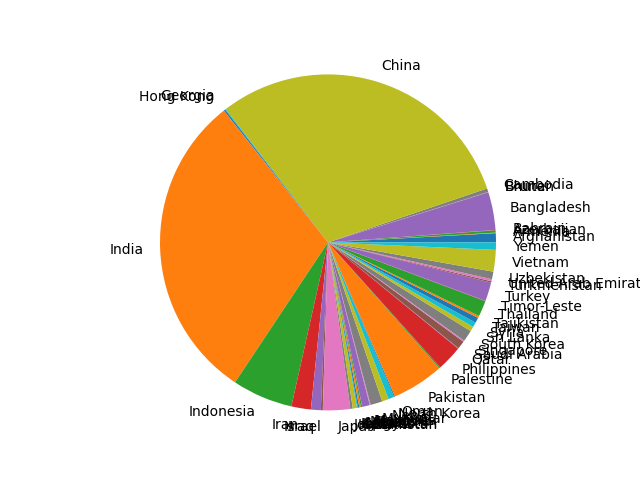
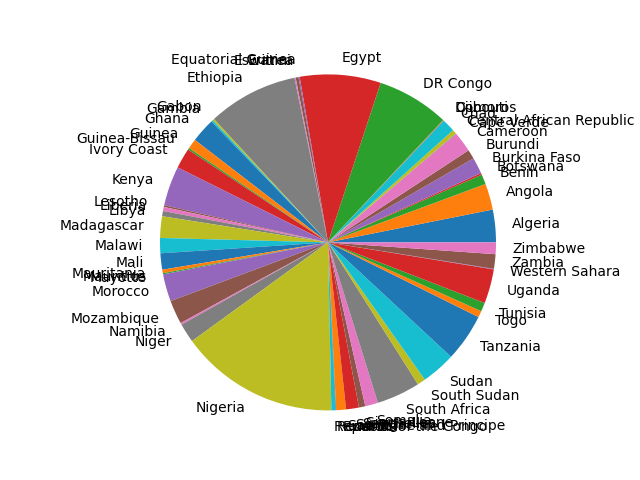
final docs

diff --git a/app/main.py b/app/main.py
@@ -1,16 +1,26 @@
 import utils
 import read_csv
 import charts
+import pandas as pd
 
 def run():
-  data = read_csv.read_csv('data.csv')
+  '''  
   # Realizar solución con este código para generar gráfico de pastel del porcentaje de la población mundial
   data = list(filter(lambda item: item['Continent'] == 'Asia', data))
 
   countries = list(map(lambda x: x['Country/Territory'], data))
   percentages = list(map(lambda x: x['World Population Percentage'], data))
+  '''
+
+  df = pd.read_csv('data.csv')
+  df = df[df['Continent'] == 'Africa']
+
+  countries = df['Country/Territory'].values
+  percentages = df['World Population Percentage'].values
+
   charts.generate_pie_chart(countries, percentages)
-  
+
+  data = read_csv.read_csv('data.csv')
   country = input('Type Country => ')
   
   result = utils.population_by_country(data, country)

diff --git a/web-server/main.py b/web-server/main.py
@@ -1,0 +1,22 @@
+import store
+from fastapi import FastAPI
+from fastapi.responses import HTMLResponse
+
+app = FastAPI()
+
+@app.get('/')
+def get_list():
+    return [1,2,3,]
+
+@app.get('/contact', response_class=HTMLResponse)
+def get_list():
+    return """
+    <h1>Hola soy Luis_6A</h1>
+    <p>Este es un párrafo</p>
+"""
+
+def run():
+    store.get_categories()
+
+if __name__ == '__main__':
+    run()

diff --git a/web-server/store.py b/web-server/store.py
@@ -1,0 +1,10 @@
+import requests
+
+def get_categories():
+    r = requests.get('https://api.escuelajs.co/api/v1/categories')
+    print(r.status_code)
+    print(r.text)
+    print(type(r.text))
+    categories = r.json()
+    for category in categories:
+        print(category['name'])

diff --git a/app/charts.py b/app/charts.py
@@ -10,7 +10,7 @@ def generate_pie_chart(labels, values):
   fig, ax = plt.subplots()
   ax.pie(values, labels = labels)
   ax.axis('equal')
-  plt.savefig('pie.png')
+  plt.savefig('chart_pie_final.png')
   plt.close()
 
 if __name__ == '__main__':
